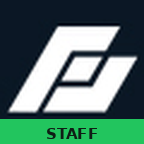
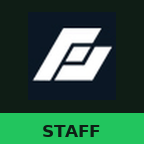
Iconos STAFF mejorados y fix parseDate para todas las fechas
- Iconos: logo reducido y centrado, banda verde STAFF más alta
  y completamente visible
- parseDate robusto: soporta dd/mm/yyyy, d/m/yyyy, dd/mm/yy,
  dd-mm-yyyy e ISO, corrige ordenación de fechas 2026

diff --git a/js/recibos.js b/js/recibos.js
@@ -12,9 +12,16 @@ function getIcon(tipo) {
 
 function parseDate(str) {
     if (!str) return 0;
-    // Soporta dd/mm/yyyy y yyyy-mm-dd
-    const parts = str.includes('/') ? str.split('/').reverse().join('-') : str;
-    return new Date(parts).getTime() || 0;
+    if (str.includes('/')) {
+        const [d, m, y] = str.split('/');
+        const fullYear = y.length === 2 ? '20' + y : y;
+        return new Date(+fullYear, +m - 1, +d).getTime() || 0;
+    }
+    if (/^\d{2}-\d{2}-\d{4}$/.test(str)) {
+        const [d, m, y] = str.split('-');
+        return new Date(+y, +m - 1, +d).getTime() || 0;
+    }
+    return new Date(str).getTime() || 0;
 }
 
 export function renderRecibosCliente({ soloPendientes = false } = {}) {

diff --git a/js/siniestros.js b/js/siniestros.js
@@ -3,8 +3,16 @@ import { renderDocumentos } from './docs.js';
 
 function parseDate(str) {
     if (!str) return 0;
-    const parts = str.includes('/') ? str.split('/').reverse().join('-') : str;
-    return new Date(parts).getTime() || 0;
+    if (str.includes('/')) {
+        const [d, m, y] = str.split('/');
+        const fullYear = y.length === 2 ? '20' + y : y;
+        return new Date(+fullYear, +m - 1, +d).getTime() || 0;
+    }
+    if (/^\d{2}-\d{2}-\d{4}$/.test(str)) {
+        const [d, m, y] = str.split('-');
+        return new Date(+y, +m - 1, +d).getTime() || 0;
+    }
+    return new Date(str).getTime() || 0;
 }
 
 export function renderSiniestrosCliente(d = {}) {

diff --git a/js/polizas.js b/js/polizas.js
@@ -136,8 +136,16 @@ export function renderWalletInline() {
 
 function parseDate(str) {
     if (!str) return 0;
-    const parts = str.includes('/') ? str.split('/').reverse().join('-') : str;
-    return new Date(parts).getTime() || 0;
+    if (str.includes('/')) {
+        const [d, m, y] = str.split('/');
+        const fullYear = y.length === 2 ? '20' + y : y;
+        return new Date(+fullYear, +m - 1, +d).getTime() || 0;
+    }
+    if (/^\d{2}-\d{2}-\d{4}$/.test(str)) {
+        const [d, m, y] = str.split('-');
+        return new Date(+y, +m - 1, +d).getTime() || 0;
+    }
+    return new Date(str).getTime() || 0;
 }
 
 function buildPolizaCard(p, tieneDocs) {
